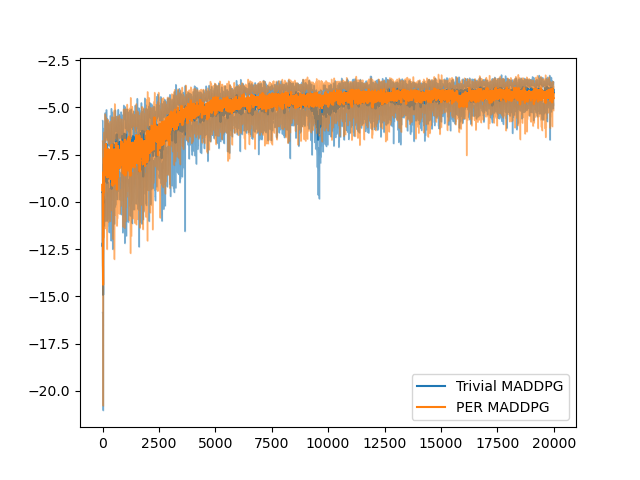
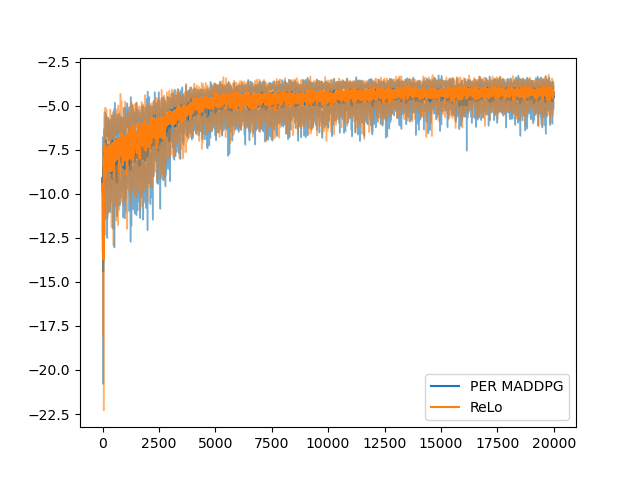
Added Reducible Loss sampling from replay buffer

diff --git a/Assignment2/algorithms/NewMADDPG.py b/Assignment2/algorithms/NewMADDPG.py
@@ -6,7 +6,7 @@ import numpy as np
 from algorithms.actor_critic import Actor, Critic
 
 from multiagent.environment import MultiAgentEnv
-from utils.ReplayBuffer import Experience, ReplayBuffer, PERBuffer
+from utils.ReplayBuffer import Experience, ReplayBuffer, PERBuffer, ReloPERBuffer
 
 from typing import List, Tuple
 
@@ -22,7 +22,7 @@ class DDPGAgent:
 
     def _construct_agent(self, args: dict, agent_id):
         self.agent_id = agent_id
-        self.args = args
+        self.args = args.copy()
 
         self.obs_dim = args['obs_dims'][agent_id]
         self.state_dim = args['state_dim']
@@ -127,12 +127,18 @@ class NewMADDPG:
         ]
 
         self.prioritized_replay = args.get('prioritized_replay', False)
-        cls = PERBuffer if self.prioritized_replay else ReplayBuffer
+        self.relo = args.get('relo', False)
+        if self.relo:
+            self.prioritized_replay = False  
+
+        mem_cls = PERBuffer if self.prioritized_replay else ReplayBuffer
+        mem_cls = ReloPERBuffer if self.relo else mem_cls
+
         # TODO: hybrid action spaces, obs spaces
         state_shape = (self.n_agents, self.obs_dims[0])
         act_shape = (self.n_agents, self.action_dims[0])
         rew_shape = done_shape = (self.n_agents,)
-        self.buffer = cls(
+        self.buffer = mem_cls(
             state_shape=state_shape, act_shape=act_shape, rew_shape=rew_shape, done_shape=done_shape,
         )
         pass
@@ -149,7 +155,7 @@ class NewMADDPG:
 
     def train(self, sample:Experience|Tuple[Experience, np.ndarray, np.ndarray], agent_id):
         device = self.device
-        if self.prioritized_replay:
+        if self.prioritized_replay or self.relo:
             sample, is_weights, batch_idx = sample
             is_weights = torch.tensor(is_weights, device=device).view([-1, 1])
 
@@ -184,6 +190,12 @@ class NewMADDPG:
         if self.prioritized_replay:
             td_errors = critic_loss.detach().cpu().numpy()
             critic_loss *= is_weights
+        elif self.relo:
+            q_cur_target = cur_agent.target_critic(observations, split_actions).detach()
+            target_critic_loss = torch.pow(target_q - q_cur_target, 2)
+            relo = (critic_loss.detach() - target_critic_loss).cpu().numpy() # new_loss - old_loss
+            pass
+
 
         critic_loss = torch.mean(critic_loss)
 
@@ -204,6 +216,8 @@ class NewMADDPG:
 
         if self.prioritized_replay:
             self.buffer.update_batch(batch_idx, td_errors)
+        elif self.relo:
+            self.buffer.update_batch(batch_idx, relo)
 
         return actor_loss.item(), critic_loss.item()
         
@@ -233,6 +247,22 @@ class NewMADDPG:
         ]
         self.args['empty_construct'] = False
         return self
+
+
+    def enter_train(self):
+        for a in self.agents:
+            a.actor.train()
+            a.target_actor.train()
+            a.critic.train()
+            a.target_critic.train()
+
+
+    def enter_eval(self):
+        for a in self.agents:
+            a.actor.eval()
+            a.target_actor.eval()
+            a.critic.eval()
+            a.target_critic.eval()
 
 
 

diff --git a/Assignment2/utils/ReplayBuffer.py b/Assignment2/utils/ReplayBuffer.py
@@ -117,14 +117,16 @@ def _static_sample(
 
 
 @jit(nopython=True)
-def _static_update_batch(
+def _static_per_process_priorities_and_update_batch(
     sum_tree:np.ndarray, min_tree:np.ndarray, batch_idx:np.ndarray, td_errors:np.ndarray,
     epsilon:float, prob_upper_bound:float, alpha:float
 ):
-    leaf_start_idx = (len(sum_tree) + 1) // 2 - 1   
     td_errors = np.minimum(np.abs(td_errors) + epsilon, prob_upper_bound)
     max_prob = td_errors.max()
     td_errors = np.power(td_errors, alpha)
+
+    leaf_start_idx = (len(sum_tree) + 1) // 2 - 1   
+    # max_prob = td_errors.max()
 
     for i in range(len(batch_idx)):
         _static_update_trees(sum_tree, min_tree, batch_idx[i] + leaf_start_idx, td_errors[i])
@@ -250,7 +252,7 @@ class PERBuffer(ReplayBuffer):
     def update_batch(self, batch_idx:np.ndarray, td_errors:np.ndarray):
         td_errors = np.squeeze(td_errors)
         if self.use_jit:
-            max_p = _static_update_batch(
+            max_p = _static_per_process_priorities_and_update_batch(
                 self.sum_tree, self.min_tree, batch_idx, td_errors, 
                 self.epsilon, self.prob_upper_bound, self.alpha
             )
@@ -259,7 +261,6 @@ class PERBuffer(ReplayBuffer):
             td_errors = np.minimum(np.abs(td_errors) + self.epsilon, self.prob_upper_bound)
             self.max_prob = max(td_errors.max(), self.max_prob)
             td_errors = np.power(td_errors, self.alpha)
-
             for idx, td_error in zip(batch_idx, td_errors):
                 self._update_trees(idx, td_error)
 
@@ -279,7 +280,47 @@ class PERBuffer(ReplayBuffer):
 
 
 
+@jit(nopython=True)
+def _static_relo_process_and_update_batch(
+    sum_tree:np.ndarray, min_tree:np.ndarray, batch_idx:np.ndarray, relo:np.ndarray,
+    epsilon:float, prob_upper_bound:float, alpha:float
+):
+    relo = np.maximum(relo, 0) + epsilon
+    max_prob = relo.max()
+    relo = np.power(relo, alpha)
+
+    leaf_start_idx = (len(sum_tree) + 1) // 2 - 1 
+
+    for i in range(len(batch_idx)):
+        _static_update_trees(sum_tree, min_tree, batch_idx[i] + leaf_start_idx, relo[i])
+
+    return max_prob
 
 
 
+class ReloPERBuffer(PERBuffer):
 
+    def __init__(self, state_shape, act_shape, rew_shape, done_shape, max_size=2 ** 19) -> None:
+        super().__init__(state_shape, act_shape, rew_shape, done_shape, max_size)
+
+
+    def update_batch(self, batch_idx: np.ndarray, relo: np.ndarray):
+        # using Max(relo, 0) + eps
+        relo = np.squeeze(relo)
+        
+        if self.use_jit:
+            max_p = _static_relo_process_and_update_batch(
+                self.sum_tree, self.min_tree, batch_idx, relo, 
+                self.epsilon, self.prob_upper_bound, self.alpha
+            )
+            self.max_prob = max(self.max_prob, max_p)
+        else:
+            relo = np.maximum(relo, 0) + self.epsilon
+            self.max_prob = max(relo.max(), self.max_prob)
+            relo = np.power(relo, self.alpha)
+            for idx, priority in zip(batch_idx, relo):
+                self._update_trees(idx, priority)
+        
+
+        pass
+        

diff --git a/Assignment2/draw_graphs.py b/Assignment2/draw_graphs.py
@@ -18,8 +18,11 @@ if __name__ == '__main__':
     # load PER MADDPG
     per_trace = np.load(save_path / r'PER-n_eps=20000-eps_len=25-a_lr=0.0001-c_lr=0.001/returns.npz')['arr_0']
 
+    # load ReLo 
+    relo_trace = np.load(save_path / r'ReLo-n_eps=20000-eps_len=25-a_lr=0.0001-c_lr=0.001\returns.npz')['arr_0']
 
-    plot_return_trace_area([trivial_trace, per_trace], ['Trivial MADDPG', 'PER MADDPG'])
+
+    plot_return_trace_area([per_trace, relo_trace], ['PER MADDPG', 'ReLo'])
     # plot_return_trace_area([trivial_trace], ['Trivial MADDPG'])
 
     plt.savefig(cur_path / 'training_trace.png')

diff --git a/Assignment2/new_evaluate.py b/Assignment2/new_evaluate.py
@@ -73,7 +73,7 @@ if '__main__' == __name__:
     args = loaded_model['args']
 
     trainer = NewMADDPG(env, args).load_state_dict(loaded_model['trainer'])
-
+    trainer.enter_eval()
 
     ########################################
     # evaluating
@@ -110,7 +110,7 @@ if '__main__' == __name__:
     
     avg_eval_returns = np.mean(returns)
     print(
-        f'Averate return per step {avg_eval_returns:.5f}\n'
+        f'Average return per step {avg_eval_returns:.5f}\n'
         f'Time cost per step {cost / (n_episode * episode_length) * 1e3} ms'
         
     )

diff --git a/Assignment2/new_learn_simple_spread.py b/Assignment2/new_learn_simple_spread.py
@@ -92,7 +92,7 @@ if '__main__' == __name__:
             'gamma': gamma, 'tau': tau, 'epsilon': epsilon, 
             'actor_lr': actor_lr, 'critic_lr': critic_lr, 'high_act': 1,
             'device': device,
-            'prioritized_replay': True
+            'prioritized_replay': True, 'relo': True,
         }
 
     # replay_buffer = ReplayBuffer()
@@ -141,7 +141,7 @@ if '__main__' == __name__:
         return avg_eval_returns
 
 
-
+    trainer.enter_train()
     returns = []
 
     for i_episode in tqdm(range(n_episodes)):
